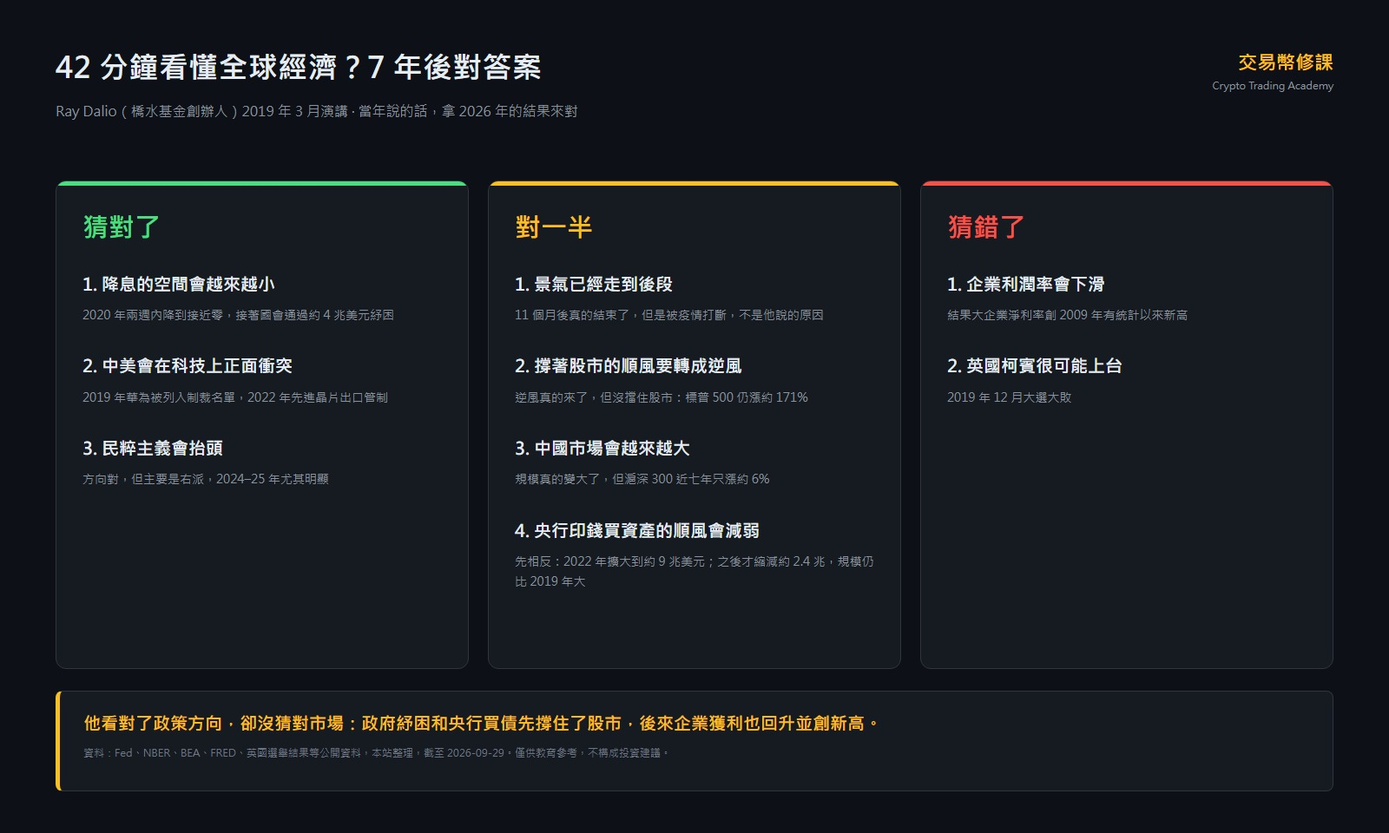
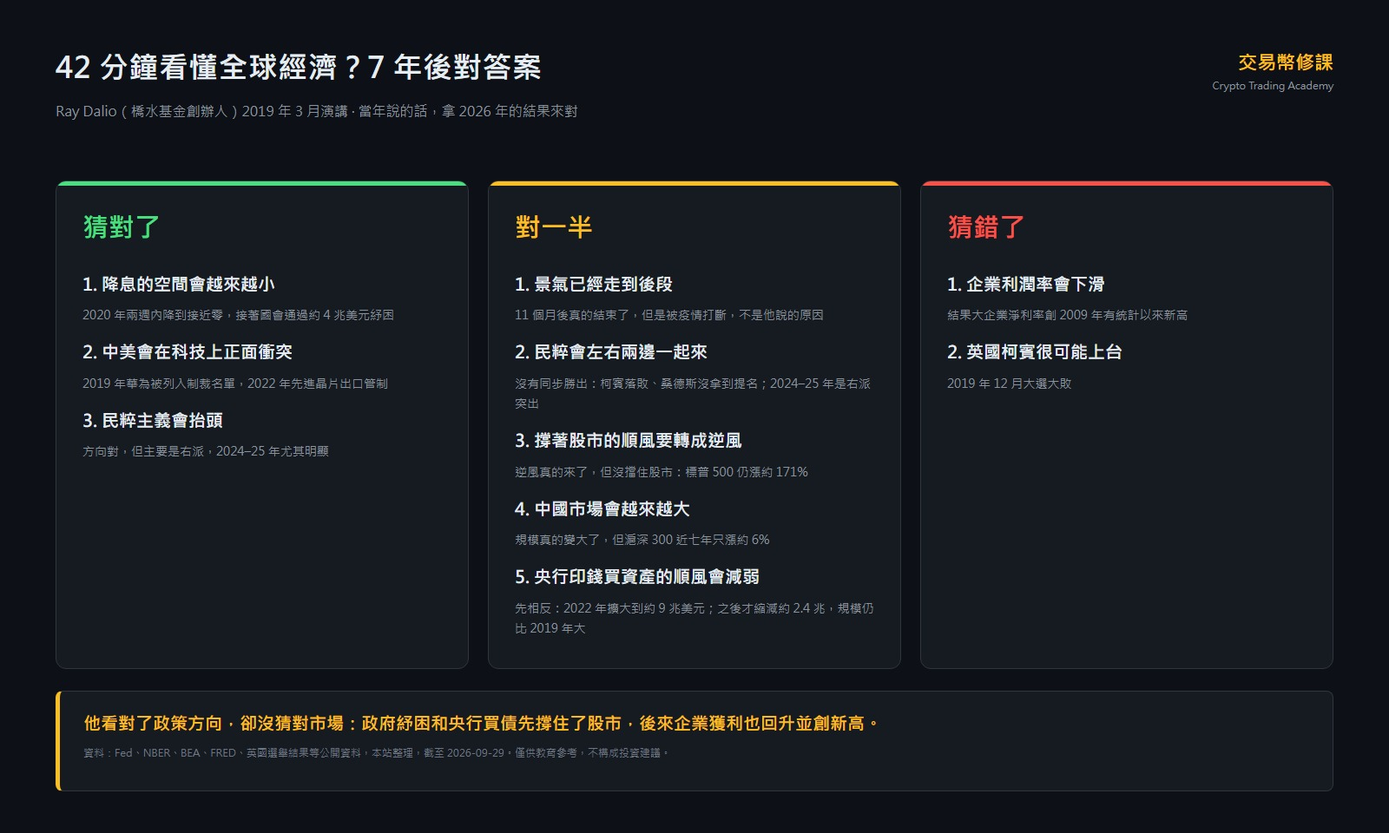
blog: 達利歐文補 4 張數據圖＋手機版圖、修正上線頁舊版文字（十二輪會審兩家通過）
- 4 張 GPT-6-sol 數據圖（利率／聯準會資產／企業獲利占 GDP／標普 500），每張另有 720px 手機版
- 成績單、經濟機器圖加手機直式版；成績單補上正文「對一半」漏列的一項；機器圖修被蓋住的箭頭
- 網頁摘要、首頁卡片、替代文字改成第九版判決；導言引用原影片標題；手機表格改自動換行
- 資料來源補 5 條；sitemap 加入本文

Changed region(s): [[0.375, 0.4062, 0.625, 0.7812], [0.0625, 0.4062, 0.2812, 0.5938], [0.6875, 0.4062, 0.8125, 0.5]]

diff --git a/blog/dalio-2019-economic-machine-hindsight.html b/blog/dalio-2019-economic-machine-hindsight.html
@@ -11,13 +11,13 @@
   <meta charset="UTF-8">
   <meta name="viewport" content="width=device-width, initial-scale=1.0">
   <title>42 分鐘看懂全球經濟？那是 7 年前的演講：我們把答案對了一遍 — 交易幣修課</title>
-  <meta name="description" content="爆紅影片「一個億萬富翁用42分鐘講清楚全球經濟」其實是 Ray Dalio 2019 年 3 月的演講。本文用白話講清楚他的經濟機器框架（借錢循環、三個平衡、兩隻手），再用 2019–2026 的實際結果對答案：大方向猜中不少，但股市、企業獲利、央行印錢三個市場判斷全錯。最後整理新手能帶走的三個觀念。">
+  <meta name="description" content="爆紅影片「一個億萬富翁用42分鐘講清楚全球經濟」其實是 Ray Dalio 2019 年 3 月的演講。本文用白話講清楚他的經濟機器框架（借錢循環、三個平衡、兩隻手），再用 2019–2026 的實際結果對答案：政策方向看對了，但企業利潤率、英國柯賓猜錯了；股市會轉逆風、央行印錢的順風會減弱，都只對一半。附 4 張數據圖，最後整理新手能帶走的三個觀念。">
   <meta name="keywords" content="Ray Dalio,達利歐,橋水基金,經濟機器,債務循環,景氣循環,央行,升息,降息,分散投資,預期,總體經濟,新手,加密貨幣,交易幣修課">
   <link rel="canonical" href="https://crypto-trading-academy.com/blog/dalio-2019-economic-machine-hindsight.html">
 
   <meta property="og:type" content="article">
   <meta property="og:title" content="42 分鐘看懂全球經濟？那是 7 年前的演講：我們把答案對了一遍">
-  <meta property="og:description" content="最近在 X 上被大量轉傳的「42 分鐘看懂全球經濟」，其實是 Ray Dalio 2019 年的演講。他教的經濟框架到今天還很好用，但他當年對市場的不少判斷，後來都沒有成立。我們把答案一條一條對了一遍。">
+  <meta property="og:description" content="最近在 X 上被大量轉傳的「一個億萬富翁用 42 分鐘講清楚全球經濟」，其實是 Ray Dalio 2019 年 3 月的演講。他教的經濟框架到今天還很好用，但他當年對市場的不少判斷，後來都沒有成立。我們把答案一條一條對了一遍。">
   <meta property="og:url" content="https://crypto-trading-academy.com/blog/dalio-2019-economic-machine-hindsight.html">
   <meta property="og:site_name" content="交易幣修課 Crypto Trading Academy">
   <meta property="og:locale" content="zh_TW">
@@ -30,7 +30,7 @@
     "@context": "https://schema.org",
     "@type": "Article",
     "headline": "42 分鐘看懂全球經濟？那是 7 年前的演講：我們把答案對了一遍",
-    "description": "最近在 X 上被大量轉傳的「42 分鐘看懂全球經濟」，其實是 Ray Dalio 2019 年的演講。他教的經濟框架到今天還很好用，但他當年對市場的不少判斷，後來都沒有成立。我們把答案一條一條對了一遍。",
+    "description": "最近在 X 上被大量轉傳的「一個億萬富翁用 42 分鐘講清楚全球經濟」，其實是 Ray Dalio 2019 年 3 月的演講。他教的經濟框架到今天還很好用，但他當年對市場的不少判斷，後來都沒有成立。我們把答案一條一條對了一遍。",
     "datePublished": "2026-09-30",
     "dateModified": "2026-09-30",
     "image": "https://crypto-trading-academy.com/blog/assets/dalio-2019-scorecard.jpg",
@@ -110,14 +110,16 @@
     </div>
   </nav>
   <style>
-    /* 手機版:欄數多的表格改為可橫向捲動,避免整頁被撐出橫向捲軸 */
+    /* 本文表格都是「兩欄長句」:手機上一律換行,第一欄保底寬度,不再橫向捲動 */
     .article-body .table-wrap { width: 100%; overflow-x: auto; -webkit-overflow-scrolling: touch; }
+    .article-body .data-table th,
+    .article-body .data-table td { white-space: normal; vertical-align: top; text-align: left; line-height: 1.7; }
+    .article-body .data-table td:first-child,
+    .article-body .data-table th:first-child { width: 36%; min-width: 7.5em; }
     @media (max-width: 640px) {
-      .article-body table.data-table { font-size: 0.8125rem; }
+      .article-body table.data-table { font-size: 0.875rem; }
       .article-body .data-table th,
-      .article-body .data-table td { padding: 0.55rem 0.4rem; white-space: nowrap; }
-      .article-body .data-table td:first-child,
-      .article-body .data-table th:first-child { white-space: normal; }
+      .article-body .data-table td { padding: 0.6rem 0.5rem; }
       .article-body h2 { font-size: 1.45rem; }
     }
   </style>
@@ -135,7 +137,7 @@
     <div class="max-w-3xl mx-auto px-4">
       <p class="text-amber-400 text-sm font-semibold tracking-wider uppercase mb-4">市場研究 ｜ 經濟框架 × 7 年後對答案</p>
       <h1 class="text-3xl md:text-5xl font-bold leading-tight mb-6">42 分鐘看懂全球經濟？<br class="hidden md:block"><span class="text-slate-400 text-2xl md:text-3xl">那是 7 年前的演講：我們把答案對了一遍</span></h1>
-      <p class="text-lg text-slate-400 mb-6">最近在 X 上被大量轉傳的「42 分鐘看懂全球經濟」，其實是 Ray Dalio 2019 年的演講。他教的經濟框架到今天還很好用，但他當年對市場的不少判斷，後來都沒有成立。我們把答案一條一條對了一遍。</p>
+      <p class="text-lg text-slate-400 mb-6">最近在 X 上被大量轉傳的「一個億萬富翁用 42 分鐘講清楚全球經濟」，其實是 Ray Dalio 2019 年 3 月的演講。他教的經濟框架到今天還很好用，但他當年對市場的不少判斷，後來都沒有成立。我們把答案一條一條對了一遍。</p>
       <div class="flex items-center gap-4 text-sm text-slate-500 mb-8">
         <span>📅 2026-09-30</span><span>•</span><span>⏱ 閱讀約 12 分鐘</span><span>•</span><span>✍ 交易幣修課研究室</span>
       </div>
@@ -152,8 +154,8 @@
 </ol>
 
     <figure class="rounded-2xl overflow-hidden border border-slate-800 shadow-2xl shadow-amber-400/10 my-8">
-        <a href="assets/dalio-2019-scorecard.jpg" target="_blank" rel="noopener" aria-label="開啟原尺寸圖片">
-          <img src="assets/dalio-2019-scorecard.jpg?v=1" alt="三欄對照表：左欄綠色「猜對了」列出降息空間越來越小、中美科技衝突、民粹抬頭；中欄黃色「對一半」列出景氣走到後段、撐著股市的順風要轉成逆風、中國市場變大；右欄紅色「猜錯了」列出企業利潤率會下滑、央行印錢買資產的順風會減弱、柯賓上台。底部寫著他看對了政策方向，卻沒猜對市場：政府紓困和央行買債先撐住了股市，後來企業獲利也回升並創新高" class="w-full h-auto" loading="eager">
+        <a href="assets/dalio-2019-scorecard.jpg" data-mobile="assets/dalio-2019-scorecard-m.jpg" target="_blank" rel="noopener" aria-label="開啟原尺寸圖片">
+          <picture><source media="(max-width: 640px)" srcset="assets/dalio-2019-scorecard-m.jpg?v=1"><img src="assets/dalio-2019-scorecard.jpg?v=2" alt="對照表：綠色「猜對了」列出降息的空間會越來越小、中美會在科技上正面衝突、民粹主義會抬頭；黃色「對一半」列出景氣已經走到後段、民粹會左右兩邊一起來、撐著股市的順風要轉成逆風、中國市場會越來越大、央行印錢買資產的順風會減弱；紅色「猜錯了」列出企業利潤率會下滑、英國柯賓很可能上台。底部寫著他看對了政策方向，卻沒猜對市場：政府紓困和央行買債先撐住了股市，後來企業獲利也回升並創新高" class="w-full h-auto" loading="eager"></picture>
         </a>
         <figcaption class="bg-slate-900 text-slate-500 text-xs text-center py-3 px-4 italic leading-relaxed">Ray Dalio 2019 年 3 月演講裡的判斷，拿 2019–2026 年的實際結果對照。資料：聯準會、NBER、BEA、FRED、英國選舉結果等公開資料，本站整理，截至 2026-09-29。<span class="not-italic text-slate-600"> · 圖看不清楚？點一下開原圖</span></figcaption>
       </figure>
@@ -208,8 +210,8 @@
     <p>這是整支影片最有價值的部分。我們用最白話的方式講一遍。</p>
 
     <figure class="rounded-2xl overflow-hidden border border-slate-800 shadow-2xl shadow-amber-400/10 my-8">
-        <a href="assets/dalio-economic-machine.jpg" target="_blank" rel="noopener" aria-label="開啟原尺寸圖片">
-          <img src="assets/dalio-economic-machine.jpg?v=1" alt="左邊是六個步驟的循環圖：利率低借錢容易、大家借錢來花、景氣變好東西變貴、央行升息踩煞車、借錢變難開始還錢、景氣變差央行降息，再回到第一步，中央寫著今天多借明天就要多還。右邊是往下的階梯：每次景氣不好就降息、一輪輪常常越降越低、降到接近零傳統降息沒空間、央行改印錢買債政府也可能出手。底部說明央行調利率印錢、政府花錢課稅" class="w-full h-auto" loading="lazy">
+        <a href="assets/dalio-economic-machine.jpg" data-mobile="assets/dalio-economic-machine-m.jpg" target="_blank" rel="noopener" aria-label="開啟原尺寸圖片">
+          <picture><source media="(max-width: 640px)" srcset="assets/dalio-economic-machine-m.jpg?v=1"><img src="assets/dalio-economic-machine.jpg?v=2" alt="一張是六個步驟的循環圖：利率低借錢容易、大家借錢來花、景氣變好東西變貴、央行升息踩煞車、借錢變難開始還錢、景氣變差央行降息，再回到第一步，中央寫著今天多借明天就要多還。另一張是往下的階梯：每次景氣不好就降息、一輪輪常常越降越低、降到接近零傳統降息沒空間、央行改印錢買債政府也可能出手。另外說明央行調利率、印錢，政府花錢、課稅" class="w-full h-auto" loading="lazy"></picture>
         </a>
         <figcaption class="bg-slate-900 text-slate-500 text-xs text-center py-3 px-4 italic leading-relaxed">Dalio 眼中的經濟：小循環是一般說的景氣好壞，大循環是一輪輪降息疊上去，直到傳統降息沒有空間。簡化示意，並非每一輪都照這個順序走。本站依 2019 年演講內容白話整理。<span class="not-italic text-slate-600"> · 圖看不清楚？點一下開原圖</span></figcaption>
       </figure>
@@ -218,7 +220,7 @@
 
     <p>達利歐說，長期來看，最重要的是大家越來越會做事、做得越來越有效率。但這件事變得很慢，你每天感受不到。</p>
 
-    <p><strong>你每天感受到的景氣好壞，主要是「借錢」在推。</strong></p>
+    <p><strong>在達利歐的框架裡，你每天感受到的景氣好壞，「借錢」是最重要的推手。</strong></p>
 
     <p>道理很簡單：</p>
 
@@ -303,6 +305,13 @@
 </table>
 </div>
 
+    <figure class="rounded-2xl overflow-hidden border border-slate-800 shadow-2xl shadow-amber-400/10 my-8">
+        <a href="assets/dalio-chart-rate.jpg" data-mobile="assets/dalio-chart-rate-m.jpg" target="_blank" rel="noopener" aria-label="開啟原尺寸圖片">
+          <picture><source media="(max-width: 640px)" srcset="assets/dalio-chart-rate-m.jpg?v=1"><img src="assets/dalio-chart-rate.jpg?v=1" alt="階梯線圖：美國政策利率。2019 年 3 月演講時是 2.25–2.5%，2019 年下半年降了三次，2020 年 3 月兩週內降到 0–0.25%；2022 到 2023 年為了壓通膨升到 5.25–5.5%；2026 年 9 月是 3.75–4%" class="w-full h-auto" loading="lazy"></picture>
+        </a>
+        <figcaption class="bg-slate-900 text-slate-500 text-xs text-center py-3 px-4 italic leading-relaxed">他說降息的空間不多了：2020 年疫情一來，聯準會兩週內就把利率降到接近零。資料：聯準會公開市場操作紀錄，本站整理，截至 2026-09-30。<span class="not-italic text-slate-600"> · 圖看不清楚？點一下開原圖</span></figcaption>
+      </figure>
+
     <p>補充一點：「下一步光靠央行不夠，得靠政府和央行一起出手」這個判斷，他在這場演講裡只點到為止；<strong>同一年 7 月他另寫了一篇文章講得很明白</strong>。2020 年的政策組合，幾乎就是照這個方向走的。</p>
 
     <h3>他對一半的</h3>
@@ -338,6 +347,13 @@
 </table>
 </div>
 
+    <figure class="rounded-2xl overflow-hidden border border-slate-800 shadow-2xl shadow-amber-400/10 my-8">
+        <a href="assets/dalio-chart-fed-assets.jpg" data-mobile="assets/dalio-chart-fed-assets-m.jpg" target="_blank" rel="noopener" aria-label="開啟原尺寸圖片">
+          <picture><source media="(max-width: 640px)" srcset="assets/dalio-chart-fed-assets-m.jpg?v=1"><img src="assets/dalio-chart-fed-assets.jpg?v=1" alt="折線圖：聯準會總資產每月平均。2019 年 3 月約 3.96 兆美元，2022 年 4 月高峰約 8.95 兆，2022 年 6 月到 2025 年 11 月聯準會縮減資產，2025 年 12 月停止縮減時約 6.57 兆，2026 年 9 月約 6.74 兆" class="w-full h-auto" loading="lazy"></picture>
+        </a>
+        <figcaption class="bg-slate-900 text-slate-500 text-xs text-center py-3 px-4 italic leading-relaxed">先是相反：演講後聯準會大量買債，資產暴增到約 9 兆美元；之後才縮回約 2.4 兆，到 2026 年 9 月仍比演講時大約 7 成。資料：聯準會 H.4.1 週報（與 FRED WALCL 同源），本站計算月平均。<span class="not-italic text-slate-600"> · 圖看不清楚？點一下開原圖</span></figcaption>
+      </figure>
+
     <h3>他猜錯的</h3>
 
     <div class="table-wrap">
@@ -359,11 +375,25 @@
 </table>
 </div>
 
+    <figure class="rounded-2xl overflow-hidden border border-slate-800 shadow-2xl shadow-amber-400/10 my-8">
+        <a href="assets/dalio-chart-profit-share.jpg" data-mobile="assets/dalio-chart-profit-share-m.jpg" target="_blank" rel="noopener" aria-label="開啟原尺寸圖片">
+          <picture><source media="(max-width: 640px)" srcset="assets/dalio-chart-profit-share-m.jpg?v=1"><img src="assets/dalio-chart-profit-share.jpg?v=1" alt="折線圖：美國企業稅後獲利占 GDP 的比例，1947 到 2026 年。虛線是 2020 年以前的最高點（2012 年第一季 10.9%），2019 年第一季（演講那季）10.1%，2026 年第二季（初步）12.1% 是 1947 年以來最高" class="w-full h-auto" loading="lazy"></picture>
+        </a>
+        <figcaption class="bg-slate-900 text-slate-500 text-xs text-center py-3 px-4 italic leading-relaxed">這是上表說的「另一把尺」：全美企業獲利占整體經濟的比例（不是上表的標普 500 淨利率）。他說利潤率會下滑，結果這個比例創下 1947 年以來新高。資料：BEA／FRED（稅後企業獲利除以 GDP），本站計算；2026 年第二季為初步數字。<span class="not-italic text-slate-600"> · 圖看不清楚？點一下開原圖</span></figcaption>
+      </figure>
+
     <h3>值得注意的反差</h3>
 
     <p>他在 3 月的演講指出降息空間有限，7 月又另文主張政府和央行要一起出手——這個政策方向，他看對了。</p>
 
     <p>但政府紓困、央行買債，<strong>反而先把市場撐住了</strong>；後來企業獲利回升、不斷創新高，也推著股價往上走。</p>
+
+    <figure class="rounded-2xl overflow-hidden border border-slate-800 shadow-2xl shadow-amber-400/10 my-8">
+        <a href="assets/dalio-chart-sp500.jpg" data-mobile="assets/dalio-chart-sp500-m.jpg" target="_blank" rel="noopener" aria-label="開啟原尺寸圖片">
+          <picture><source media="(max-width: 640px)" srcset="assets/dalio-chart-sp500-m.jpg?v=1"><img src="assets/dalio-chart-sp500.jpg?v=1" alt="折線圖：標普 500 指數收盤。2019 年 3 月底 2,834 點，2020 年 3 月疫情低點 2,237，2022 年 10 月低點 3,577，2026 年 9 月 28 日 7,684，七年半漲約 171%（不含股息）" class="w-full h-auto" loading="lazy"></picture>
+        </a>
+        <figcaption class="bg-slate-900 text-slate-500 text-xs text-center py-3 px-4 italic leading-relaxed">逆風後來確實出現了（例如 2022 年大幅升息），但沒擋住股市：七年半漲了約 171%（不含股息）。資料：Yahoo Finance（與 FRED 重疊期間逐日比對一致），本站整理。<span class="not-italic text-slate-600"> · 圖看不清楚？點一下開原圖</span></figcaption>
+      </figure>
 
     <p><strong>猜對政策方向，不等於猜對股市。</strong> 這是這場演講留給我們最有價值的一課。</p>
 
@@ -432,7 +462,7 @@
 
     <p>幣圈的朋友應該很有感：2021 年 11 月比特幣在 6.9 萬美元左右的高點追進的人，隔年帳面一度跌了約 76%。</p>
 
-    <p><strong>但也要公平說</strong>：不是所有漲過的都會跌。這幾年美國的大型科技公司一直漲，是因為它們真的越賺越多。所以關鍵不是「漲過沒有」，而是<strong>賺錢的能力有沒有跟上價格</strong>。</p>
+    <p><strong>但也要公平說</strong>：不是所有漲過的都會跌。這幾年美國的大型科技公司一直漲，背後很重要的一個原因是它們真的越賺越多。所以關鍵不是「漲過沒有」，而是<strong>賺錢的能力有沒有跟上價格</strong>。</p>
 
     <h3>附帶一件：什麼才叫真的分散？</h3>
 
@@ -472,15 +502,17 @@
     <ul>
   <li>演講內容：<a href="https://www.youtube.com/watch?v=_hf5tCnJye0" target="_blank" rel="noopener" class="text-amber-400 hover:text-amber-300 underline underline-offset-2">Liwa Capital 官方原片&#8599;</a>（2019 年 3 月），本站自行逐字轉錄</li>
   <li>同年「政府和央行要一起出手」的文章：<a href="https://www.linkedin.com/pulse/its-time-look-more-carefully-monetary-policy-3-mp3-modern-ray-dalio" target="_blank" rel="noopener" class="text-amber-400 hover:text-amber-300 underline underline-offset-2">Ray Dalio, It's Time to Look More Carefully at "Monetary Policy 3"（2019 年 7 月）&#8599;</a></li>
-  <li>美國升息與利率：<a href="https://www.federalreserve.gov/newsevents/pressreleases/monetary20260916a.htm" target="_blank" rel="noopener" class="text-amber-400 hover:text-amber-300 underline underline-offset-2">聯準會 2026 年 9 月 16 日決議&#8599;</a></li>
+  <li>美國升息與利率：<a href="https://www.federalreserve.gov/newsevents/pressreleases/monetary20260916a.htm" target="_blank" rel="noopener" class="text-amber-400 hover:text-amber-300 underline underline-offset-2">聯準會 2026 年 9 月 16 日決議&#8599;</a>；歷次升降息（利率圖）：<a href="https://www.federalreserve.gov/monetarypolicy/openmarket.htm" target="_blank" rel="noopener" class="text-amber-400 hover:text-amber-300 underline underline-offset-2">聯準會公開市場操作紀錄&#8599;</a></li>
   <li>景氣起訖：<a href="https://www.nber.org/research/business-cycle-dating" target="_blank" rel="noopener" class="text-amber-400 hover:text-amber-300 underline underline-offset-2">美國經濟研究局（NBER）景氣循環日期&#8599;</a></li>
   <li>標普 500 淨利率：<a href="https://insight.factset.com/sp-500-reporting-highest-net-profit-margin-in-more-than-15-years-2" target="_blank" rel="noopener" class="text-amber-400 hover:text-amber-300 underline underline-offset-2">FactSet（2026 年 7 月 28 日）&#8599;</a></li>
   <li>全美企業獲利占經濟比例：<a href="https://fred.stlouisfed.org/series/CPATAX" target="_blank" rel="noopener" class="text-amber-400 hover:text-amber-300 underline underline-offset-2">FRED：CPATAX&#8599;</a> 除以 <a href="https://fred.stlouisfed.org/series/GDP" target="_blank" rel="noopener" class="text-amber-400 hover:text-amber-300 underline underline-offset-2">FRED：GDP&#8599;</a></li>
   <li>2023 年實際經濟成長（第四季比前一年第四季）：<a href="https://fred.stlouisfed.org/series/A191RO1Q156NBEA" target="_blank" rel="noopener" class="text-amber-400 hover:text-amber-300 underline underline-offset-2">FRED：A191RO1Q156NBEA&#8599;</a></li>
-  <li>標普 500 點數：<a href="https://fred.stlouisfed.org/series/SP500" target="_blank" rel="noopener" class="text-amber-400 hover:text-amber-300 underline underline-offset-2">FRED：SP500&#8599;</a></li>
-  <li>聯準會資產規模：<a href="https://fred.stlouisfed.org/series/WALCL" target="_blank" rel="noopener" class="text-amber-400 hover:text-amber-300 underline underline-offset-2">FRED：WALCL&#8599;</a></li>
+  <li>標普 500 點數：<a href="https://fred.stlouisfed.org/series/SP500" target="_blank" rel="noopener" class="text-amber-400 hover:text-amber-300 underline underline-offset-2">FRED：SP500&#8599;</a>；每日收盤（標普圖）：<a href="https://finance.yahoo.com/quote/%5EGSPC/history/" target="_blank" rel="noopener" class="text-amber-400 hover:text-amber-300 underline underline-offset-2">Yahoo Finance&#8599;</a></li>
+  <li>聯準會資產規模：<a href="https://fred.stlouisfed.org/series/WALCL" target="_blank" rel="noopener" class="text-amber-400 hover:text-amber-300 underline underline-offset-2">FRED：WALCL&#8599;</a>；每週原始資料（資產圖）：<a href="https://www.federalreserve.gov/releases/h41/" target="_blank" rel="noopener" class="text-amber-400 hover:text-amber-300 underline underline-offset-2">聯準會 H.4.1 週報&#8599;</a></li>
   <li>2022、2023 年的預估與實際：<a href="https://www.federalreserve.gov/monetarypolicy/fomcprojtabl20211215.htm" target="_blank" rel="noopener" class="text-amber-400 hover:text-amber-300 underline underline-offset-2">聯準會 2021 年 12 月經濟預測&#8599;</a>、<a href="https://www.federalreserve.gov/monetarypolicy/fomcprojtabl20221214.htm" target="_blank" rel="noopener" class="text-amber-400 hover:text-amber-300 underline underline-offset-2">2022 年 12 月經濟預測&#8599;</a>、<a href="https://www.bls.gov/opub/ted/2022/consumer-prices-up-9-1-percent-over-the-year-ended-june-2022-largest-increase-in-40-years.htm" target="_blank" rel="noopener" class="text-amber-400 hover:text-amber-300 underline underline-offset-2">美國勞工統計局 CPI 9.1%&#8599;</a></li>
   <li>英國 2019 年大選結果：<a href="https://electoral-reform.org.uk/2019-general-election-results/" target="_blank" rel="noopener" class="text-amber-400 hover:text-amber-300 underline underline-offset-2">Electoral Reform Society&#8599;</a></li>
+  <li>德國 2025 年大選結果（極右派得票 20.8%，2021 年 10.4%）：<a href="https://www.bundeswahlleiterin.de/en/info/presse/mitteilungen/bundestagswahl-2025/29_25_endgueltiges-ergebnis.html" target="_blank" rel="noopener" class="text-amber-400 hover:text-amber-300 underline underline-offset-2">德國聯邦選舉委員會&#8599;</a></li>
+  <li>2022、2023 年股票與債券的年度報酬（含股息）：<a href="https://novelinvestor.com/asset-class-returns/" target="_blank" rel="noopener" class="text-amber-400 hover:text-amber-300 underline underline-offset-2">Novel Investor 資產類別報酬表&#8599;</a></li>
   <li>中國上市公司總市值（2019、2025 年）：<a href="https://data.worldbank.org/indicator/CM.MKT.LCAP.CD?locations=CN" target="_blank" rel="noopener" class="text-amber-400 hover:text-amber-300 underline underline-offset-2">世界銀行：上市公司總市值&#8599;</a></li>
   <li>滬深 300 指數（2019 年底收 4,096.58；2026 年 9 月 29 日收 4,345.21）：<a href="https://www.csindex.com.cn/" target="_blank" rel="noopener" class="text-amber-400 hover:text-amber-300 underline underline-offset-2">中證指數公司&#8599;</a></li>
   <li>歐洲央行利率：<a href="https://www.ecb.europa.eu/stats/policy_and_exchange_rates/key_ecb_interest_rates/html/index.en.html" target="_blank" rel="noopener" class="text-amber-400 hover:text-amber-300 underline underline-offset-2">ECB 主要利率&#8599;</a></li>
@@ -500,6 +532,8 @@
   <li>市場數字變動很快，閱讀時請留意日期。</li>
   <li>歷史表現不代表未來。加密貨幣與股票都可能大幅波動，甚至損失全部本金。請只用你輸得起的錢，並自己做最後的決定。</li>
 </ol>
+<script>try{if(window.matchMedia('(max-width: 640px)').matches){document.querySelectorAll('a[data-mobile]').forEach(function(a){a.href=a.getAttribute('data-mobile');});}}catch(e){}</script>
+
   </article>
 
   <div class="max-w-3xl mx-auto px-4 pb-12">
@@ -523,7 +557,7 @@
         <a href="../course.html" class="inline-block bg-amber-400 text-slate-900 font-bold text-lg px-8 py-4 rounded-xl hover:bg-amber-300 transition shadow-lg shadow-amber-400/20">裸 K 關鍵價位課程 &rarr;</a>
         <a href="trading-demons-05-fomo.html" class="inline-block border border-slate-600 text-slate-300 font-semibold text-lg px-8 py-4 rounded-xl hover:border-amber-400 hover:text-amber-400 transition">交易心魔：FOMO</a>
       </div>
-      <p class="mt-6 text-xs text-slate-600 max-w-2xl mx-auto leading-relaxed">本文為<strong>教育內容，不構成任何投資建議</strong>，不推薦任何資產、基金、配置方式或買賣時點。文中對 Ray Dalio 2019 年演講的引述與 2019–2026 年的對照，僅用於說明經濟框架的用途與限制，<strong>不代表對任何人物、機構或金融商品的評價或推薦</strong>。所有數字均標明來源與日期，市場變化快速，請留意時效。<strong>過去績效不代表未來收益</strong>，加密貨幣與股票皆可能大幅波動，甚至損失全部本金。請參閱本站<a href="../risk-disclosure.html" class="hover:text-slate-400 underline">風險揭露聲明</a>。</p>
+      <p class="mt-6 text-xs text-slate-600 max-w-2xl mx-auto leading-relaxed">本文為<strong>教育內容，不構成任何投資建議</strong>，不推薦任何資產、基金、配置方式或買賣時點。文中對 Ray Dalio 2019 年演講的引述與 2019–2026 年的對照，僅用於說明經濟框架的用途與限制，<strong>不代表對任何人物、機構或金融商品的評價或推薦</strong>。文中 2026 年的數字各自標了日期，來源見文末「資料來源」；市場變化快速，請留意時效。<strong>過去績效不代表未來收益</strong>，加密貨幣與股票皆可能大幅波動，甚至損失全部本金。請參閱本站<a href="../risk-disclosure.html" class="hover:text-slate-400 underline">風險揭露聲明</a>。</p>
     </div>
   </section>
 

diff --git a/blog/index.html b/blog/index.html
@@ -401,7 +401,7 @@
             <span class="text-sm text-slate-500">2026-09-30</span>
           </div>
           <h3 class="text-2xl font-bold text-white mb-3">42 分鐘看懂全球經濟？那是 7 年前的演講：我們把答案對了一遍</h3>
-          <p class="text-slate-400 leading-relaxed mb-4">最近在 X 上爆紅的「一個億萬富翁用 42 分鐘講清楚全球經濟」，其實是橋水基金創辦人<strong>達利歐 2019 年 3 月</strong>的演講，轉貼版沒標年份。他教的「經濟是一台會自己轉的機器」——<strong>借錢是景氣的油門和煞車</strong>、央行和政府是兩隻手——到今天還很好用。但他當年對市場的判斷，拿 2026 年的結果來對：政策方向看對了，<strong>企業利潤率、央行印錢的順風、英國柯賓</strong>卻都猜錯。<strong>猜對政策方向，不等於猜對股市。</strong>全篇白話，附新手能帶走的三個觀念。</p>
+          <p class="text-slate-400 leading-relaxed mb-4">最近在 X 上爆紅的「一個億萬富翁用 42 分鐘講清楚全球經濟」，其實是橋水基金創辦人<strong>達利歐 2019 年 3 月</strong>的演講，轉貼版沒標年份。他教的「經濟是一台會自己轉的機器」——<strong>借錢是最重要的零件</strong>、央行和政府是兩隻手——到今天還很好用。但他當年對市場的判斷，拿 2026 年的結果來對：政策方向看對了，<strong>企業利潤率、英國柯賓</strong>卻猜錯了；股市會轉逆風、央行印錢的順風會減弱，都只對一半。<strong>猜對政策方向，不等於猜對股市。</strong>全篇白話，附 4 張數據圖和新手能帶走的三個觀念。</p>
           <span class="text-amber-400 font-medium">看完整對答案 &rarr;</span>
         </a>
 
